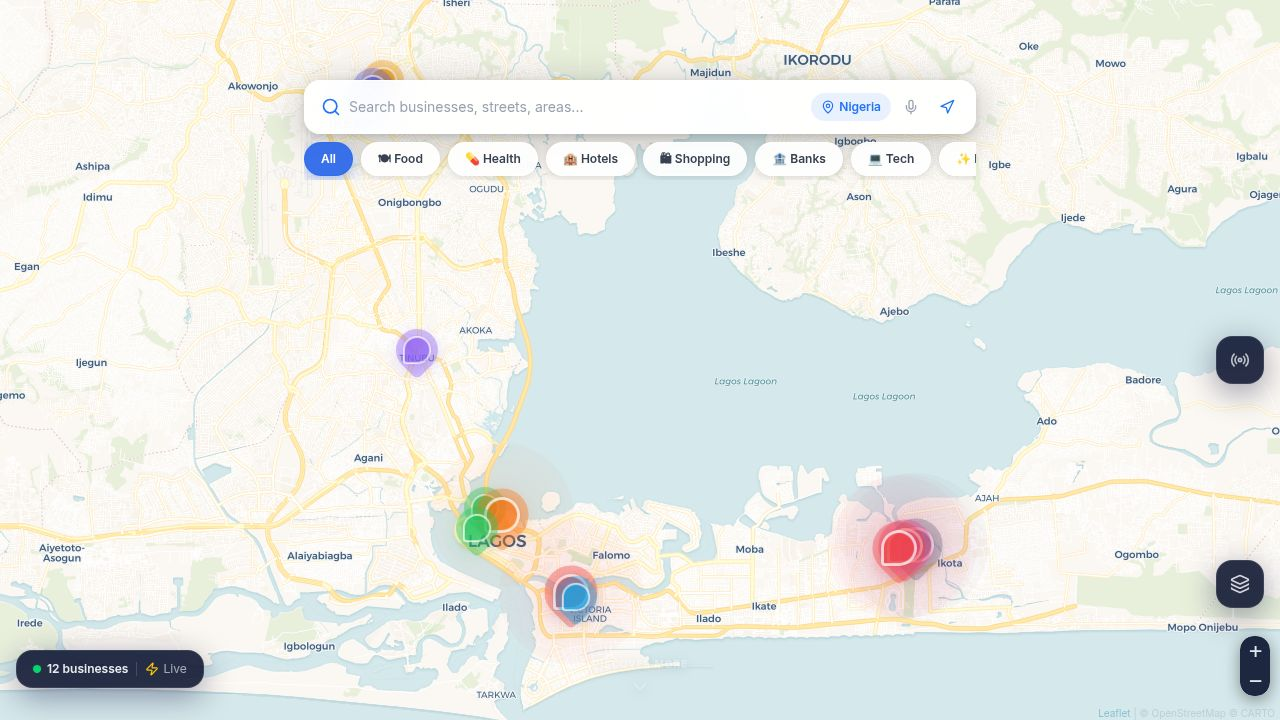
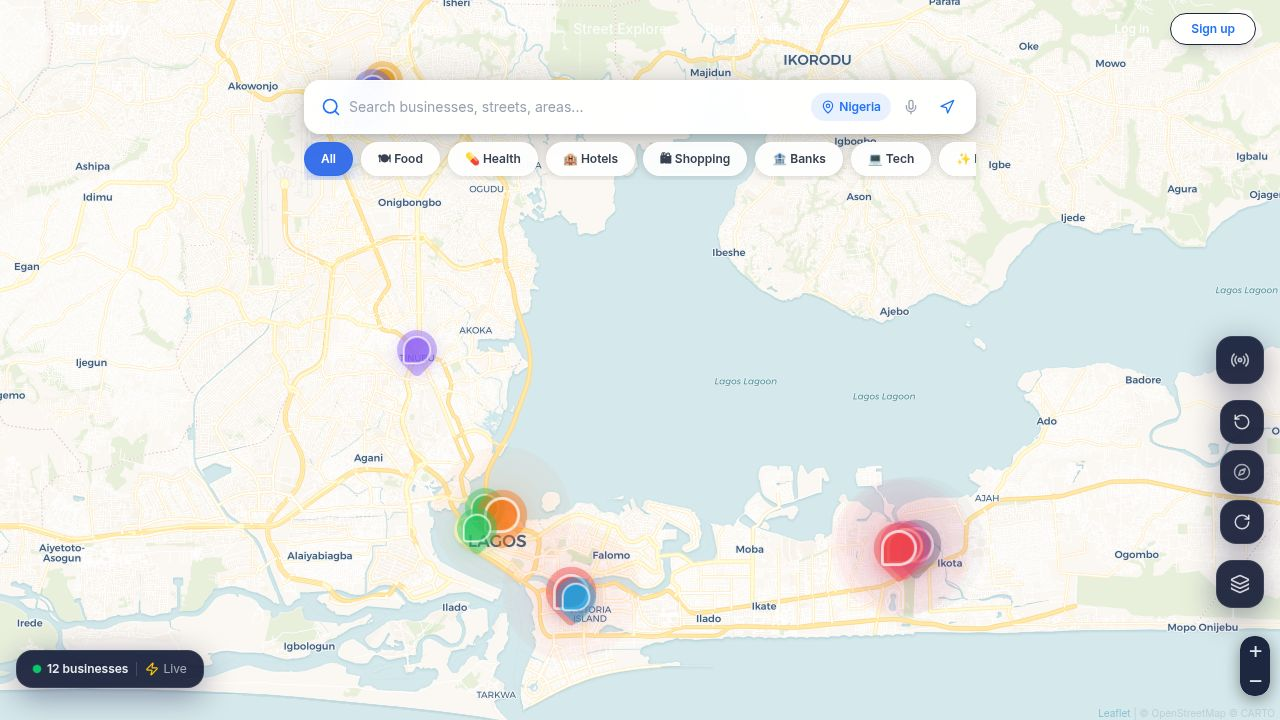
Add touch rotation and current location label to map
Add two-finger touch rotation gesture and a "Your Current Location" label to the user's marker on the map view.

Replit-Commit-Author: Agent
Replit-Commit-Session-Id: a94d00cd-eeab-402d-af46-8c8fbab64aeb
Replit-Commit-Checkpoint-Type: full_checkpoint
Replit-Commit-Event-Id: 3720dcc6-3ddb-4083-8d15-4e5cc9079484
Replit-Commit-Screenshot-Url: https://storage.googleapis.com/screenshot-production-us-central1/236f4c24-861d-4f53-8e8e-1fcdf9b2f034/a94d00cd-eeab-402d-af46-8c8fbab64aeb/cA6VmP2
Replit-Helium-Checkpoint-Created: true

Changed region(s): [[0.9375, 0.55, 1.0, 0.7944], [0.9062, 0.0, 0.9688, 0.0917], [0.4375, 0.7944, 0.4688, 0.825]]

diff --git a/artifacts/streetly/src/components/HomeMapView.tsx b/artifacts/streetly/src/components/HomeMapView.tsx
@@ -129,14 +129,17 @@ export function HomeMapView() {
   const [, navigate] = useLocation();
   const { data: businesses = [] } = useMapBusinesses();
 
+  const outerRef = useRef<HTMLDivElement>(null);
   const containerRef = useRef<HTMLDivElement>(null);
   const mapRef = useRef<any>(null);
   const tileLayerRef = useRef<any>(null);
-  const labelsLayerRef = useRef<any>(null);   // satellite street-name overlay
+  const labelsLayerRef = useRef<any>(null);
   const markersRef = useRef<Array<{ marker: any; biz: Business }>>([]);
   const userMarkerRef = useRef<any>(null);
   const watchIdRef = useRef<number | null>(null);
   const activityTimerRef = useRef<ReturnType<typeof setInterval> | null>(null);
+  const rotationRef = useRef(0);                     // always-fresh rotation for touch handler
+  const touchStartRef = useRef<{ angle: number; baseRotation: number } | null>(null);
 
   const [search, setSearch] = useState("");
   const [category, setCategory] = useState("");
@@ -166,12 +169,54 @@ export function HomeMapView() {
     return () => { if (activityTimerRef.current) clearInterval(activityTimerRef.current); };
   }, []);
 
+  /* ── Keep rotationRef in sync (avoids stale closures in touch handler) ── */
+  useEffect(() => { rotationRef.current = rotationDeg; }, [rotationDeg]);
+
   /* ── Apply CSS rotation to map container ── */
   useEffect(() => {
     if (!containerRef.current) return;
     containerRef.current.style.transform = `rotate(${rotationDeg}deg)`;
     containerRef.current.style.transformOrigin = "center center";
   }, [rotationDeg]);
+
+  /* ── Two-finger twist-to-rotate gesture on the outer wrapper ── */
+  useEffect(() => {
+    const el = outerRef.current;
+    if (!el) return;
+
+    function getTouchAngle(touches: TouchList): number {
+      const dx = touches[1].clientX - touches[0].clientX;
+      const dy = touches[1].clientY - touches[0].clientY;
+      return Math.atan2(dy, dx) * (180 / Math.PI);
+    }
+
+    const onStart = (e: TouchEvent) => {
+      if (e.touches.length === 2) {
+        touchStartRef.current = {
+          angle: getTouchAngle(e.touches),
+          baseRotation: rotationRef.current,
+        };
+      }
+    };
+
+    const onMove = (e: TouchEvent) => {
+      if (e.touches.length === 2 && touchStartRef.current) {
+        const delta = getTouchAngle(e.touches) - touchStartRef.current.angle;
+        setRotationDeg(((touchStartRef.current.baseRotation + delta) % 360 + 360) % 360);
+      }
+    };
+
+    const onEnd = () => { touchStartRef.current = null; };
+
+    el.addEventListener("touchstart", onStart, { passive: true });
+    el.addEventListener("touchmove", onMove, { passive: true });
+    el.addEventListener("touchend", onEnd);
+    return () => {
+      el.removeEventListener("touchstart", onStart);
+      el.removeEventListener("touchmove", onMove);
+      el.removeEventListener("touchend", onEnd);
+    };
+  }, []);
 
   /* ── Filter markers ── */
   useEffect(() => {
@@ -254,17 +299,23 @@ export function HomeMapView() {
 
       L.control.zoom({ position: "bottomright" }).addTo(map);
 
-      /* Show/hide business name labels based on zoom */
+      /* Show/hide name labels (business + user location) based on zoom */
       map.on("zoomend", () => {
         const z = map.getZoom();
         const showLabels = z >= 15;
-        /* Toggle .biz-name-label opacity via the marker element */
+        /* Business markers */
         markersRef.current.forEach(({ marker }) => {
           const el = marker.getElement?.() as HTMLElement | undefined;
           if (!el) return;
           const label = el.querySelector<HTMLElement>(".biz-name-label");
           if (label) label.style.opacity = showLabels ? "1" : "0";
         });
+        /* User location marker */
+        const userEl = userMarkerRef.current?.getElement?.() as HTMLElement | undefined;
+        if (userEl) {
+          const label = userEl.querySelector<HTMLElement>(".biz-name-label");
+          if (label) label.style.opacity = showLabels ? "1" : "0";
+        }
       });
 
       map.on("click", () => { setSelected(null); setShowStylePicker(false); });
@@ -345,10 +396,19 @@ export function HomeMapView() {
           userMarkerRef.current.setLatLng([latitude, longitude]);
         } else {
           const html = `
-            <div style="position:relative;width:32px;height:32px;display:flex;align-items:center;justify-content:center;">
-              <div style="position:absolute;width:32px;height:32px;border-radius:50%;background:rgba(5,71,182,0.2);animation:live-track-ring 1.6s ease-out infinite;"></div>
-              <div style="position:absolute;width:20px;height:20px;border-radius:50%;background:rgba(5,71,182,0.15);animation:live-track-ring 1.6s ease-out 0.4s infinite;"></div>
-              <div class="user-location-dot" style="width:14px;height:14px;background:#2563eb;border:3px solid white;border-radius:50%;position:relative;z-index:2;box-shadow:0 2px 12px rgba(5,71,182,0.6);"></div>
+            <div style="position:relative;width:44px;height:44px;display:flex;align-items:center;justify-content:center;">
+              <div class="biz-name-label" style="
+                position:absolute;top:-24px;left:50%;transform:translateX(-50%);
+                background:rgba(5,71,182,0.88);color:white;
+                font-size:10px;font-weight:700;white-space:nowrap;
+                padding:2px 8px;border-radius:20px;
+                border:1px solid rgba(255,255,255,0.25);
+                backdrop-filter:blur(8px);pointer-events:none;
+                opacity:0;transition:opacity 0.2s;
+              ">📍 Your Current Location</div>
+              <div style="position:absolute;width:44px;height:44px;border-radius:50%;background:rgba(5,71,182,0.15);animation:live-track-ring 1.6s ease-out infinite;"></div>
+              <div style="position:absolute;width:28px;height:28px;border-radius:50%;background:rgba(5,71,182,0.12);animation:live-track-ring 1.6s ease-out 0.4s infinite;"></div>
+              <div class="user-location-dot" style="width:16px;height:16px;background:#2563eb;border:3px solid white;border-radius:50%;position:relative;z-index:2;box-shadow:0 2px 16px rgba(5,71,182,0.7);"></div>
             </div>`;
           const icon = L.divIcon({ className: "", html, iconSize: [32, 32], iconAnchor: [16, 16] });
           userMarkerRef.current = L.marker([latitude, longitude], { icon, zIndexOffset: 2000 }).addTo(map);
@@ -380,7 +440,7 @@ export function HomeMapView() {
   const visibleCount = businesses.filter(b => b.latitude && b.longitude).length;
 
   return (
-    <div className="relative w-full overflow-hidden" style={{ height: "100dvh" }}>
+    <div ref={outerRef} className="relative w-full overflow-hidden" style={{ height: "100dvh" }}>
       {/* Map canvas — rotation applied here via CSS transform in useEffect */}
       <div ref={containerRef} className="absolute inset-0" style={{ transition: "transform 0.3s ease" }} />
 